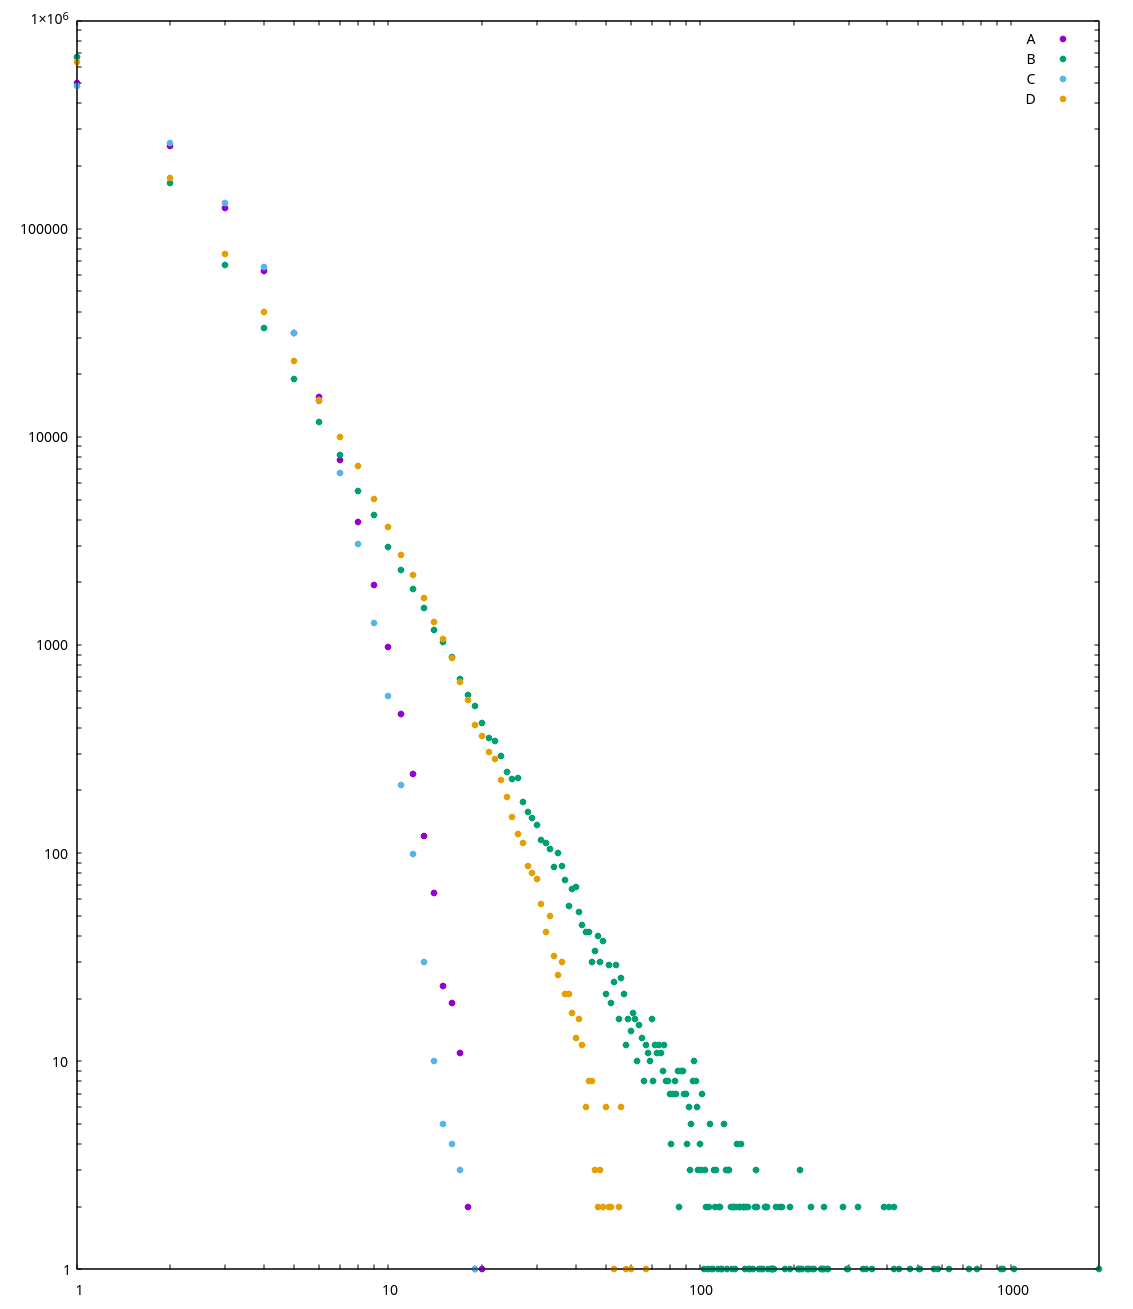
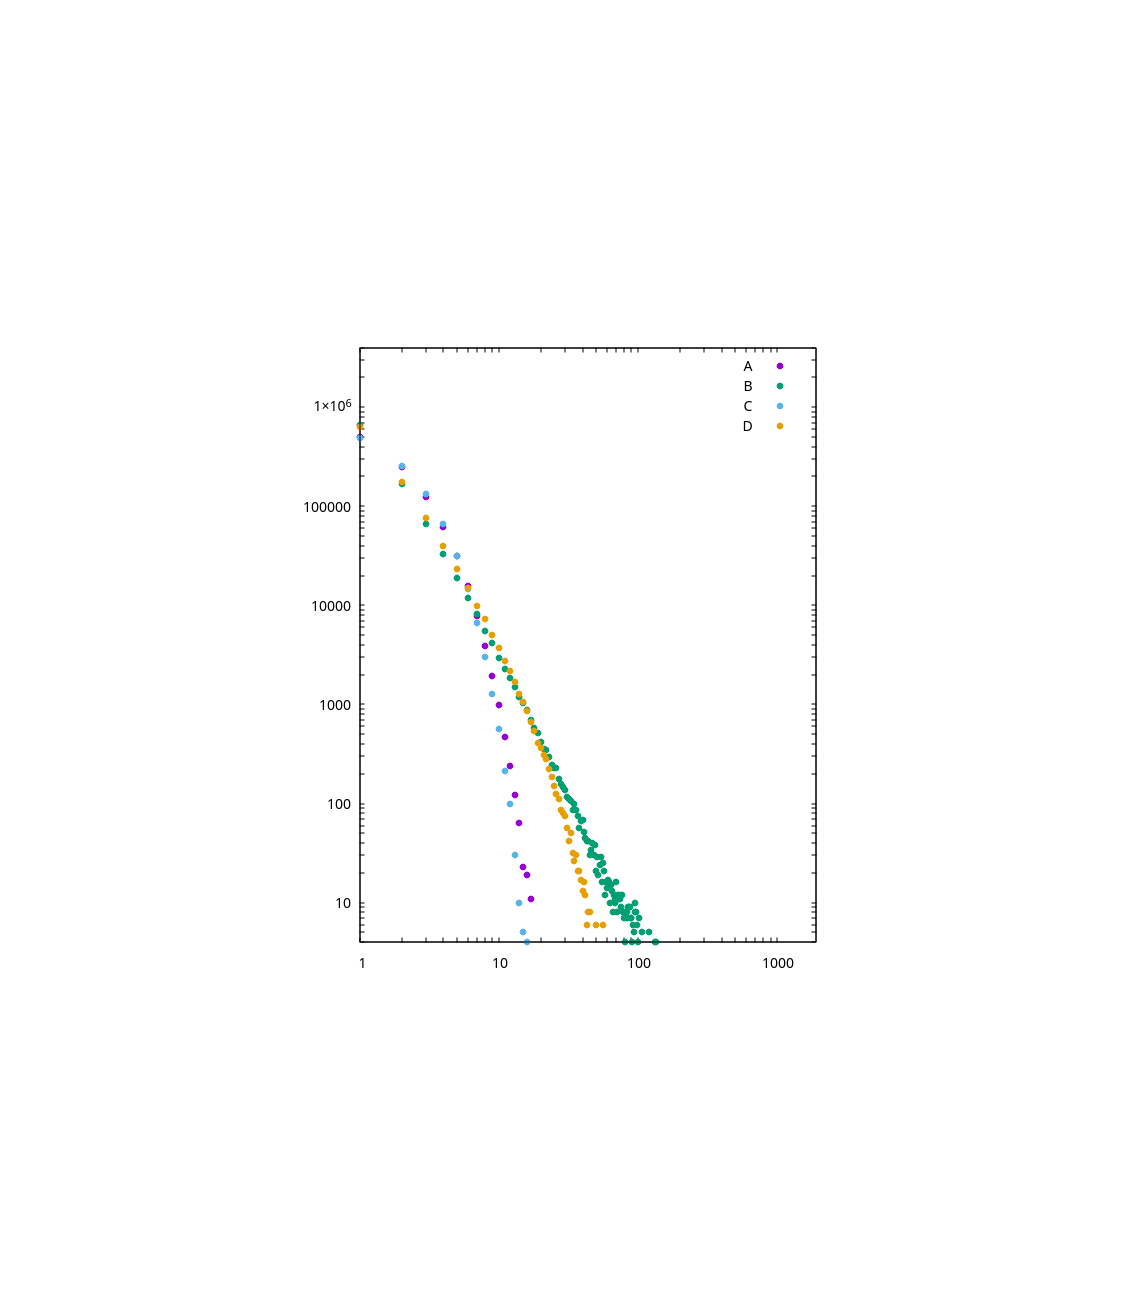
Playing with figure size.

diff --git a/src/model.rs b/src/model.rs
@@ -188,6 +188,8 @@ impl Report {
         let y: Vec<isize> = counter.values().map(|x| *x as isize).collect();
 
         fg.points(&x, &y, &[PointSymbol('O'), Caption(caption)])
+            .set_size(0.5, 0.5)
+            .set_pos(0.25, 0.25)
             .set_x_log(Some(10f64))
             .set_y_log(Some(10f64));
     }
